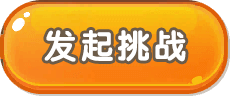
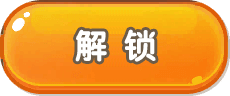
change

Changed region(s): [[0.1826, 0.2812, 0.8217, 0.6875]]

diff --git a/naodong/src/Bingo.ts b/naodong/src/Bingo.ts
@@ -1,8 +1,7 @@
-class Bingo extends eui.Component implements  eui.UIComponent {
+class Bingo extends eui.Component implements eui.UIComponent {
 	public constructor() {
 		super();
 	}
-
 	public btn_share: eui.Button;
 	public btn_next: eui.Button;
 	public bg: eui.Image;
@@ -35,70 +34,86 @@ class Bingo extends eui.Component implements  eui.UIComponent {
 	public star4: eui.Image;
 
 	//回答错误
-	public errGroup:eui.Group;
-	public jixuBtn:eui.Button;
-	public chongwanBtn:eui.Button;
+	public errGroup: eui.Group;
+	public jixuBtn: eui.Button;
+	public chongwanBtn: eui.Button;
 
 
-	protected partAdded(partName:string,instance:any):void
-	{
-		super.partAdded(partName,instance);
+	protected partAdded(partName: string, instance: any): void {
+		super.partAdded(partName, instance);
 	}
-	protected childrenCreated():void
-	{
+	protected childrenCreated(): void {
 		super.childrenCreated();
-		this.btn_next.addEventListener(egret.TouchEvent.TOUCH_TAP,this.onNext,this);
-		this.btn_share.addEventListener(egret.TouchEvent.TOUCH_TAP,this.onShare,this);
-		
-		
-		this.Btntiaozhan.addEventListener(egret.TouchEvent.TOUCH_TAP,this.tiaozhan,this);
-		this.chachaBtn.addEventListener(egret.TouchEvent.TOUCH_TAP,this.onchacha,this);
+		this.btn_next.addEventListener(egret.TouchEvent.TOUCH_TAP, this.onNext, this);
+		this.btn_share.addEventListener(egret.TouchEvent.TOUCH_TAP, this.onShare, this);
+
+
+		this.Btntiaozhan.addEventListener(egret.TouchEvent.TOUCH_TAP, this.tiaozhan, this);
+		this.chachaBtn.addEventListener(egret.TouchEvent.TOUCH_TAP, this.onchacha, this);
 
 		//重玩和继续的按钮方法
-		this.chongwanBtn.addEventListener(egret.TouchEvent.TOUCH_TAP,this.onreStart,this);
-		this.jixuBtn.addEventListener(egret.TouchEvent.TOUCH_TAP,this.onResume,this);
+		this.chongwanBtn.addEventListener(egret.TouchEvent.TOUCH_TAP, this.onreStart, this);
+		this.jixuBtn.addEventListener(egret.TouchEvent.TOUCH_TAP, this.onResume, this);
 	}
-	private onchacha(e:TouchEvent)
-	{
+	private onchacha(e: TouchEvent) {
 		this.visible = false;
 		this.comboGroup.visible = false;
 		SceneGame.getInstance().levelScene.visible = false;
 		SceneGame.getInstance().InitLevel(LevelDataManager.getInstance().curIcon);
 	}
-	private tiaozhan()
-	{
-		(wx as any).shareAppMessage({
-			title: "小学生都能答出的脑筋急转弯，看看你能答对多少？",
-			imageUrl: "resource/assets/common/title11.png"
+	private tiaozhan() {
+		let videoAd = (wx as any).createRewardedVideoAd({
+			adUnitId: 'adunit-1d0fb93e0bab0a56'
 		});
-		egret.Tween.get(this).wait(200).call(()=>{
-			this.visible = false;
-			this.comboGroup.visible = false;
-			SceneGame.getInstance().levelScene.visible = false;
-			SceneGame.getInstance().InitLevel(LevelDataManager.getInstance().curIcon);
+		videoAd.onError(err => {
+			console.log(err)
 		})
+		videoAd.show().then(() => {
+			console.log("解锁拉取视频成功")
+		}).catch(err => {
+			console.log("解锁视频拉取失败");
+			    (wx as any).shareAppMessage({
+                title: "小学生都能答出的脑筋急转弯，看看你能答对多少？",
+                imageUrl: "resource/assets/common/title11.png"
+            });
+			egret.Tween.get(this).wait(200).call(()=>{
+				this.visible = false;
+				this.comboGroup.visible = false;
+				SceneGame.getInstance().levelScene.visible = false;
+				SceneGame.getInstance().InitLevel(LevelDataManager.getInstance().curIcon);
+			})
+		});
+		videoAd.onClose(res => {
+			// 用户点击了【关闭广告】按钮
+			if (res && res.isEnded || res === undefined) {
+				// 正常播放结束，可以下发游戏奖励
+				this.visible = false;
+				this.comboGroup.visible = false;
+				SceneGame.getInstance().levelScene.visible = false;
+				SceneGame.getInstance().InitLevel(LevelDataManager.getInstance().curIcon);
+			}
+			else {
+				// 播放中途退出，不下发游戏奖励
+				console.log("提前关闭");
+			}
+		})	
 	}
-	private onErro()
-	{
-		platform.shareAppMessage();
-	}	
-	private onNext()
-	{
+	private onNext() {
 		console.log("点击下一题");
-		SoundManager.getInstance().answerSoundChanel = SoundManager.getInstance().answerSound.play(0,1);
+		SoundManager.getInstance().answerSoundChanel = SoundManager.getInstance().answerSound.play(0, 1);
 		SoundManager.getInstance().answerSoundChanel.volume = 1;
-		egret.Tween.get(this.btn_next).to({scaleX:1.2,scaleY:1.2},100).to({scaleX:1,scaleY:1},100);
+		egret.Tween.get(this.btn_next).to({ scaleX: 1.2, scaleY: 1.2 }, 100).to({ scaleX: 1, scaleY: 1 }, 100);
 		this.visible = false;
 		this.bingoGroup.visible = false;
 		this.trueGroup.visible = false;
 		LevelDataManager.getInstance().curIcon++;
-		if(LevelDataManager.getInstance().curIcon > LevelDataManager.getInstance().GetMileStone())//如果大于最远
+		if (LevelDataManager.getInstance().curIcon > LevelDataManager.getInstance().GetMileStone())//如果大于最远
 		{
 			let level = LevelDataManager.getInstance().curIcon;
 			LevelDataManager.getInstance().SetMileStone(level);//存储  	{key:"myscore",value:level.toString()}
 			(wx as any).setUserCloudStorage({
-				KVDataList:[{key:"score",value:level.toString()}]
-			});		
+				KVDataList: [{ key: "score", value: level.toString() }]
+			});
 		}
 		this.imageUpdate();
 	}
@@ -119,8 +134,7 @@ class Bingo extends eui.Component implements  eui.UIComponent {
 			let curIndex = LevelDataManager.getInstance().GetCurIndex();
 			curIndex++;//每十个题目 增加一关。 1  11 2  21 3  31  4  41  5   81 9  91 10
 			let replaceIndex = curIndex; //11 第2关  子元素 1
-			if(curIndex > LevelDataManager.getInstance().GetCurIndex())
-			{
+			if (curIndex > LevelDataManager.getInstance().GetCurIndex()) {
 				LevelDataManager.getInstance().SetCurIndex(curIndex);//当前关卡数存储起来
 			}
 			wx.vibrateLong({
@@ -128,31 +142,31 @@ class Bingo extends eui.Component implements  eui.UIComponent {
 					console.log("抖动成功");
 				}
 			});
-		
+
 			//显示当前关所在的页面
 			let page = this.getNumCurIndex(curIndex);
 			SceneGame.getInstance().levelScene.pageIndex = page;
 			SceneGame.getInstance().levelScene.updateLabel(SceneGame.getInstance().levelScene.groupLevel, SceneGame.getInstance().levelScene.pageIndex);
 			SceneGame.getInstance().levelScene.updataName();
 			SceneGame.getInstance().levelScene.showLevelIconTween(curIndex);
-				//关卡界面出来  就是现在的当前页面
+			//关卡界面出来  就是现在的当前页面
 			SceneGame.getInstance().levelScene.visible = true;
 			let index = (replaceIndex - 1) % 9;//数组元素  所以要-1
 			let element = SceneGame.getInstance().levelScene.groupLevel.getChildAt(index) as any; //子元素  0 8   
-			let img:eui.Image = element.imgLock;
-			let label:eui.BitmapLabel = element.bitlabel_levelIndex;
+			let img: eui.Image = element.imgLock;
+			let label: eui.BitmapLabel = element.bitlabel_levelIndex;
 			//解锁关卡的标签动画   关卡界面消失后弹出发起挑战界面
-			egret.Tween.get(img).to({alpha:0},1000).call(()=>{
-				egret.Tween.get(label).to({alpha:1},1000).call(()=>{
+			egret.Tween.get(img).to({ alpha: 0 }, 1000).call(() => {
+				egret.Tween.get(label).to({ alpha: 1 }, 1000).call(() => {
 				})
-			}).wait(1000).call(()=>{
-			//界面出来后进入发起挑战界面去下一题
-			SceneGame.getInstance().bingoLayer.visible = true;
-			SceneGame.getInstance().bingoLayer.comboGroup.visible = true;
-			this.guanLabel.text = "当前解锁第" + (LevelDataManager.getInstance().GetCurIndex()) + "关"; // 2
-			SoundManager.getInstance().trueSoundChanel = SoundManager.getInstance().trueSound.play(0, 1);
-			SoundManager.getInstance().trueSoundChanel.volume = 1;
-			console.log("发起挑战");
+			}).wait(1000).call(() => {
+				//界面出来后进入发起挑战界面去下一题
+				SceneGame.getInstance().bingoLayer.visible = true;
+				SceneGame.getInstance().bingoLayer.comboGroup.visible = true;
+				this.guanLabel.text = "当前解锁第" + (LevelDataManager.getInstance().GetCurIndex()) + "关"; // 2
+				SoundManager.getInstance().trueSoundChanel = SoundManager.getInstance().trueSound.play(0, 1);
+				SoundManager.getInstance().trueSoundChanel.volume = 1;
+				console.log("发起挑战");
 			})
 		}
 		else if (level > 1) {
@@ -161,62 +175,50 @@ class Bingo extends eui.Component implements  eui.UIComponent {
 		}
 
 	}
-	public getNumCurIndex(index:number):number
-	{
+	public getNumCurIndex(index: number): number {
 		let pageIndex = Math.ceil(index / 9);
 		console.log("当前页面" + pageIndex);
 		return pageIndex;
 	}
-	private changeImg(index:number)
-	{
-		if(index >= 1 && index <= 90)
-		{
+	private changeImg(index: number) {
+		if (index >= 1 && index <= 90) {
 			SceneGame.getInstance().levelScene.ImgName.source = LevelScene.getInstance().chenghuArray[0];
 			SceneGame.getInstance().levelScene.ImgName.width = 86;
-			
+
 		}
-		else if(index >= 91 && index <= 180)
-		{
+		else if (index >= 91 && index <= 180) {
 			SceneGame.getInstance().levelScene.ImgName.source = LevelScene.getInstance().chenghuArray[1];
 			SceneGame.getInstance().levelScene.ImgName.width = 86;
 		}
-		else if(index >= 181 && index <= 270)
-		{
+		else if (index >= 181 && index <= 270) {
 			SceneGame.getInstance().levelScene.ImgName.source = LevelScene.getInstance().chenghuArray[2];
 			SceneGame.getInstance().levelScene.ImgName.width = 86;
 		}
-		else if(index >= 271 && index <= 360)
-		{
+		else if (index >= 271 && index <= 360) {
 			SceneGame.getInstance().levelScene.ImgName.source = LevelScene.getInstance().chenghuArray[3];
 			SceneGame.getInstance().levelScene.ImgName.width = 86;
 		}
-		else if(index >= 361 && index <= 450)
-		{
+		else if (index >= 361 && index <= 450) {
 			SceneGame.getInstance().levelScene.ImgName.source = LevelScene.getInstance().chenghuArray[4];
 			SceneGame.getInstance().levelScene.ImgName.width = 86;
 		}
-		else if(index >= 451 && index <= 540)
-		{
+		else if (index >= 451 && index <= 540) {
 			SceneGame.getInstance().levelScene.ImgName.source = LevelScene.getInstance().chenghuArray[5];
 			SceneGame.getInstance().levelScene.ImgName.width = 86;
 		}
-		else if(index >= 541 && index <= 630)
-		{
+		else if (index >= 541 && index <= 630) {
 			SceneGame.getInstance().levelScene.ImgName.source = LevelScene.getInstance().chenghuArray[6];
 			SceneGame.getInstance().levelScene.ImgName.width = 86;
 		}
-		else if(index >= 631 && index <= 720)
-		{
+		else if (index >= 631 && index <= 720) {
 			SceneGame.getInstance().levelScene.ImgName.source = LevelScene.getInstance().chenghuArray[7];
 			SceneGame.getInstance().levelScene.ImgName.width = 147;
 		}
-		else if(index >= 721 && index <= 810)
-		{
+		else if (index >= 721 && index <= 810) {
 			SceneGame.getInstance().levelScene.ImgName.source = LevelScene.getInstance().chenghuArray[8];
 			SceneGame.getInstance().levelScene.ImgName.width = 147;
 		}
-		else if(index >= 811 && index <= 900)
-		{
+		else if (index >= 811 && index <= 900) {
 			SceneGame.getInstance().levelScene.ImgName.source = LevelScene.getInstance().chenghuArray[9];
 			SceneGame.getInstance().levelScene.ImgName.width = 147;
 			if (index == 900) {
@@ -228,22 +230,22 @@ class Bingo extends eui.Component implements  eui.UIComponent {
 			}
 		}
 	}
-			//继续
-		private onResume() {
-			platform.restartVideo();
-		}
-		//回到 161 重新开始
-		private onreStart() {
-			let curIcon = LevelDataManager.getInstance().curIcon;
-			let remaining = curIcon % 10;//多余的关数   165   5
-			curIcon -= remaining;
-			LevelDataManager.getInstance().curIcon = curIcon + 1;
-			SceneGame.getInstance().bingoLayer.visible = false;
-			SceneGame.getInstance().bingoLayer.errGroup.visible = false;
-			SceneGame.getInstance().InitLevel(LevelDataManager.getInstance().curIcon);
-			console.log("答错后的关数curIcon" + LevelDataManager.getInstance().curIcon);
-		}
+	//继续
+	private onResume() {
+		platform.restartVideo();
+	}
+	//回到 161 重新开始
+	private onreStart() {
+		let curIcon = LevelDataManager.getInstance().curIcon;
+		let remaining = curIcon % 10;//多余的关数   165   5
+		curIcon -= remaining;
+		LevelDataManager.getInstance().curIcon = curIcon + 1;
+		SceneGame.getInstance().bingoLayer.visible = false;
+		SceneGame.getInstance().bingoLayer.errGroup.visible = false;
+		SceneGame.getInstance().InitLevel(LevelDataManager.getInstance().curIcon);
+		console.log("答错后的关数curIcon" + LevelDataManager.getInstance().curIcon);
+	}
 }
-	
+
 
 window["Bingo"] = Bingo;

diff --git a/naodong/src/WeChatPlatform.ts b/naodong/src/WeChatPlatform.ts
@@ -140,6 +140,9 @@ class WeChatPlatform implements Platform {
                 console.log("视频拉取失败");
                 platform.testShare();
             });
+              video.onError(err=>{
+                console.log("错误信息",err.errMsg,err.errCode);
+            })
             video.onClose(res => {
                 // 用户点击了【关闭广告】按钮
                 if (res && res.isEnded || res === undefined) {
@@ -305,7 +308,6 @@ class WeChatPlatform implements Platform {
               }
     }
    
-    
 
     
    
